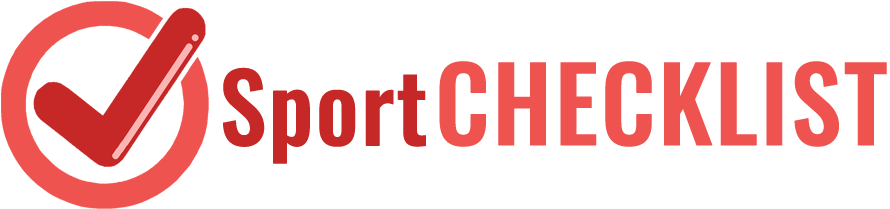
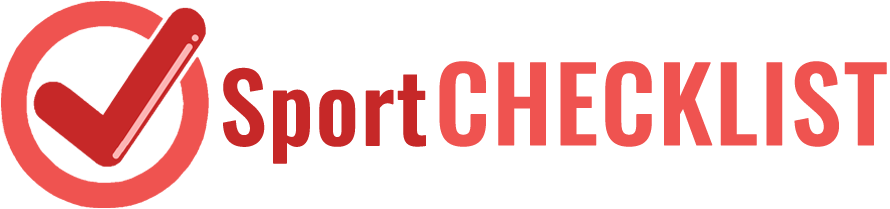
v1.7.3: Modifica loghi

diff --git a/assets/js/utils.js b/assets/js/utils.js
@@ -1,5 +1,5 @@
 
 export const APP_NAME = "Sport Checklist";
-export const APP_VERSION = "1.7.2"
+export const APP_VERSION = "1.7.3"
 export const SUPPORT_EMAIL = "matteosteri+sportchecklist@gmail.com";
 export const PLAY_STORE_URL = "https://play.google.com/store/apps/details?id=com.matteosteri.sportchecklist";
